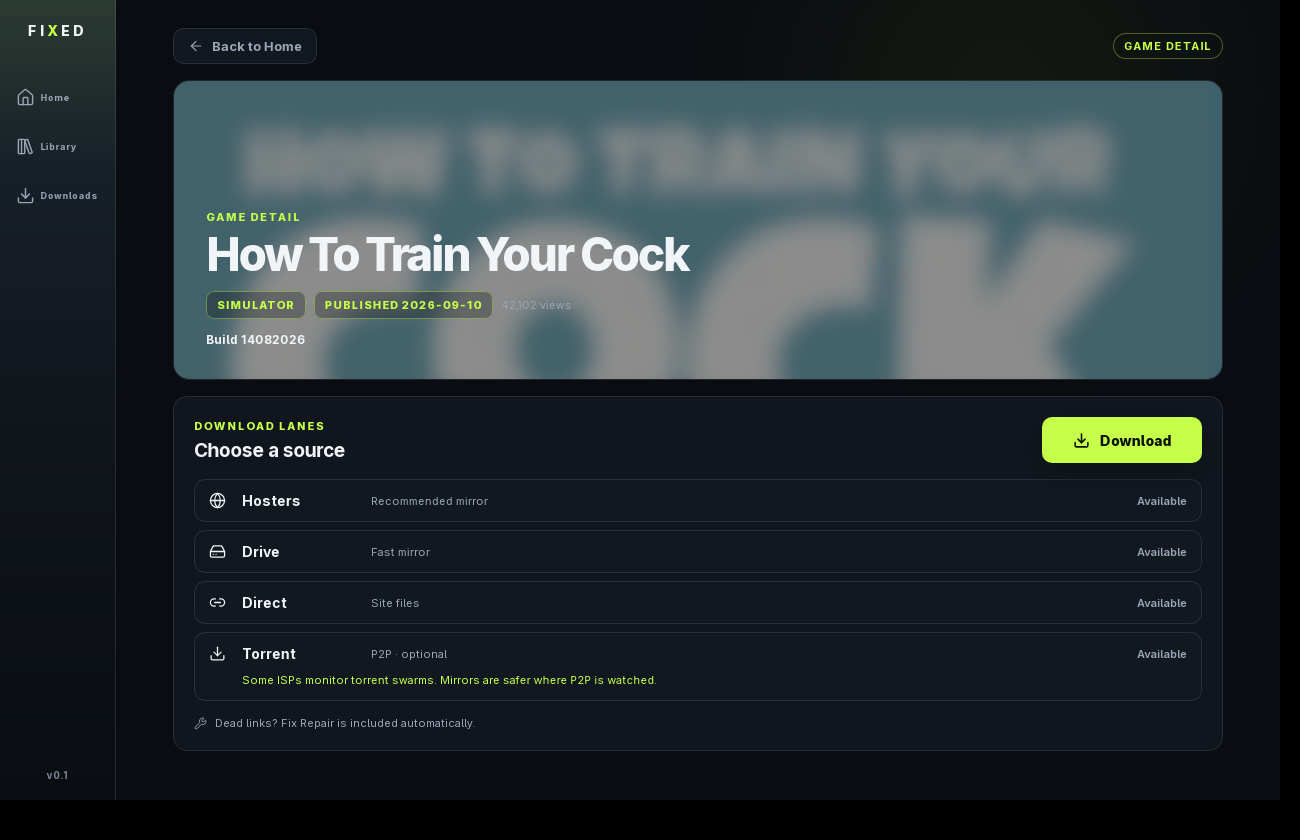
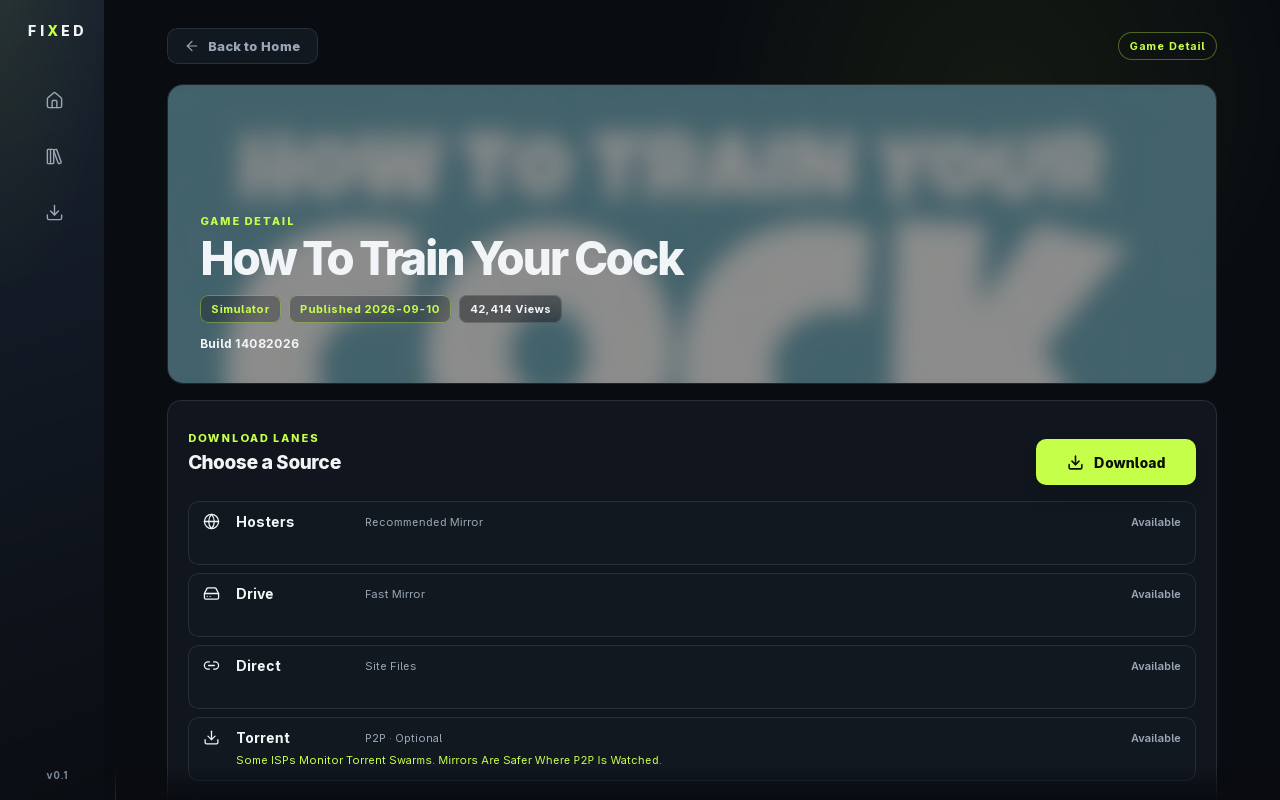
docs: real README, fresh screenshots, landing update; sidebar dramatic gradient + micro polish

diff --git a/app/src/App.css b/app/src/App.css
@@ -38,20 +38,24 @@ button { border: 0; }
 svg { flex: 0 0 auto; }
 h1, h2, h3, p { margin: 0; }
 
-.shell { display: grid; grid-template-columns: 116px minmax(0, 1fr); width: 100%; height: 100%; min-height: 720px; }
-.sidebar { display: flex; flex-direction: column; align-items: center; width: 116px; padding: 24px 8px 18px; border-right: 1px solid var(--line); background: linear-gradient(180deg, rgba(198, 255, 74, .03) 0%, rgba(198, 255, 74, .0246) 18%, transparent 36%), linear-gradient(180deg, #121920 0%, #11181F 48%, #0D1218 100%); }
+.shell { display: grid; grid-template-columns: 104px minmax(0, 1fr); width: 100%; height: 100%; min-height: 720px; }
+.sidebar { position: relative; display: flex; flex-direction: column; align-items: center; width: 116px; padding: 24px 8px 18px; border-right: 1px solid var(--line); background: radial-gradient(ellipse 180% 70% at 0% 0%, rgba(198, 255, 74, 0.07), transparent 52%), linear-gradient(160deg, #1A2330 0%, #121924 40%, #0A0D12 100%); }
+
+.sidebar::after { position: absolute; top: 0; right: 0; bottom: 0; width: 1px; background: linear-gradient(180deg, rgba(198, 255, 74, 0.35), rgba(213, 225, 237, 0.08) 42%, transparent 85%); content: ""; }
 .wordmark { color: var(--text); font-size: 14px; font-weight: 850; letter-spacing: .22em; line-height: 1; }
 .wordmark .x { color: var(--lime); }
 .sidebar nav { display: grid; gap: 8px; width: 104px; margin-top: 38px; }
-.nav-item { position: relative; display: flex; align-items: center; gap: 6px; width: 104px; height: var(--button-action-height); padding: 0 16px; border-radius: var(--button-radius); background: transparent; color: var(--muted); text-align: left; transition: color var(--dur-micro) var(--ease-standard), background-color var(--dur-micro) var(--ease-standard), transform var(--dur-micro) var(--ease-standard); }
+.nav-item { position: relative; display: flex; align-items: center; gap: 6px; width: 104px; height: var(--button-action-height); padding: 0 16px; border-radius: var(--button-radius); background: transparent; color: var(--muted); text-align: left; transition: color var(--dur-micro) var(--ease-standard), background-color var(--dur-micro) var(--ease-standard), transform var(--dur-micro) var(--ease-standard), box-shadow var(--dur-micro) var(--ease-standard); }
 .nav-item span { overflow: hidden; font-size: 9px; font-weight: 750; letter-spacing: .04em; text-overflow: ellipsis; white-space: nowrap; }
 .nav-item:hover, .nav-item.active { color: var(--text); background: rgba(25, 33, 43, .95); }
-.nav-item:hover { transform: translateY(-2px); }
+.nav-item:hover { box-shadow: 0 8px 18px rgba(0, 0, 0, .18); transform: translateY(-2px); }
+.nav-item::after { position: absolute; top: 50%; left: calc(100% + 10px); z-index: 10; padding: 7px 9px; border: 1px solid var(--line); border-radius: 8px; background: var(--elevated); box-shadow: 0 10px 24px rgba(0, 0, 0, .32); color: var(--text); content: attr(title); font-size: 11px; font-weight: 750; letter-spacing: .03em; opacity: 0; pointer-events: none; transform: translate(4px, -50%); transition: opacity var(--dur-micro) var(--ease-standard), transform var(--dur-micro) var(--ease-standard); white-space: nowrap; }
+.nav-item:hover::after, .nav-item:focus-visible::after { opacity: 1; transform: translate(0, -50%); }
 .nav-item::before { position: absolute; left: 0; top: 10px; width: 3px; height: 22px; border-radius: 0 3px 3px 0; background: var(--lime); content: ""; opacity: 0; transform: scaleY(.25); transition: opacity var(--dur-micro) var(--ease-standard), transform var(--dur-micro) var(--ease-pop); }
 .nav-item.active::before { opacity: 1; transform: scaleY(1); }
 .foot { margin-top: auto; color: #7B8794; font-size: 10px; font-weight: 700; letter-spacing: 0.08em; line-height: 1.4; text-align: center; }
 
-.content { min-width: 0; padding: 24px 24px 22px; overflow-y: auto; scrollbar-color: var(--elevated) transparent; scrollbar-width: thin; background: radial-gradient(circle at 76% 12%, rgba(198, 255, 74, .055), transparent 28%), var(--bg); }
+.content { min-width: 0; padding: 24px 24px 22px; overflow-y: auto; scrollbar-color: var(--elevated) transparent; scrollbar-width: thin; -webkit-mask-image: linear-gradient(to bottom, #000 0%, #000 calc(100% - 34px), transparent 100%); mask-image: linear-gradient(to bottom, #000 0%, #000 calc(100% - 34px), transparent 100%); background: radial-gradient(circle at 76% 12%, rgba(198, 255, 74, .055), transparent 28%), var(--bg); }
 .content::-webkit-scrollbar { width: 10px; }
 .content::-webkit-scrollbar-thumb { border: 2px solid var(--bg); border-radius: 8px; background: var(--elevated); }
 .content::-webkit-scrollbar-track { background: transparent; }
@@ -62,13 +66,16 @@ h1, h2, h3, p { margin: 0; }
 .searchbar { display: flex; align-items: center; gap: 10px; width: 430px; height: 36px; padding: 0 13px; border: 1px solid var(--line); border-radius: 11px; background: rgba(18, 24, 32, .86); color: var(--muted); transition: border-color var(--dur-micro) var(--ease-standard), box-shadow var(--dur-micro) var(--ease-standard); }
 .searchbar:focus-within { border-color: rgba(198, 255, 74, .55); }
 .searchbar input { width: 100%; border: 0; outline: 0; background: transparent; color: var(--text); }
+.searchbar input:focus-visible { outline: 2px solid var(--lime); outline-offset: 3px; border-radius: 2px; }
 .searchbar input::placeholder { color: var(--muted); }
-.source { display: inline-flex; align-items: center; max-width: 220px; min-height: 28px; overflow: hidden; padding: 0 10px; border: 1px solid rgba(198, 255, 74, .35); border-radius: 999px; color: var(--lime); font-size: var(--size-meta); font-weight: 750; letter-spacing: .08em; text-overflow: ellipsis; white-space: nowrap; }
+.source { display: inline-flex; align-items: center; max-width: 220px; min-height: 28px; padding: 0 10px; border: 1px solid rgba(198, 255, 74, .35); border-radius: 999px; color: var(--lime); font-size: var(--size-meta); font-weight: 750; letter-spacing: .08em; overflow-wrap: anywhere; white-space: normal; }
 .eyebrow { color: var(--lime); font-size: var(--size-meta); font-weight: 800; letter-spacing: .14em; line-height: 1.2; text-transform: uppercase; }
 
 .hero { position: relative; display: flex; align-items: center; height: 300px; margin-top: 18px; padding: 28px 34px; overflow: hidden; border: 1px solid var(--line); border-radius: 14px; isolation: isolate; animation: fade-rise var(--dur-med) var(--ease-decel) both; }
 .hero-bg { position: absolute; z-index: -2; inset: 0; width: 100%; height: 100%; object-fit: cover; object-position: center 30%; filter: saturate(.9) brightness(.72); }
+.hero::before { position: absolute; z-index: -1; inset: 0 0 0 42%; background: linear-gradient(90deg, rgba(9, 12, 16, .18), rgba(9, 12, 16, .06)); content: ""; transition: opacity var(--dur-med) var(--ease-standard); }
 .hero::after { position: absolute; z-index: -1; inset: 0; background: linear-gradient(90deg, rgba(9, 12, 16, .78), rgba(9, 12, 16, .48) 42%, rgba(9, 12, 16, .08) 100%), linear-gradient(0deg, rgba(9, 12, 16, .46), transparent 68%); content: ""; }
+.hero:hover::before { opacity: .45; }
 .hero-copy { position: relative; z-index: 1; min-width: 0; max-width: 520px; }
 .hero-copy .eyebrow { margin-bottom: 8px; }
 .hero-title { overflow-wrap: anywhere; font-size: 38px; font-weight: 850; letter-spacing: -.055em; line-height: .98; text-shadow: 0 2px 18px rgba(0, 0, 0, .48); }
@@ -82,39 +89,39 @@ h1, h2, h3, p { margin: 0; }
 .rail-block, .catalog { margin-top: 16px; animation: fade-rise var(--dur-med) var(--ease-decel) both; }
 .rail-head { display: flex; align-items: center; justify-content: space-between; }
 .rail-head h2, .rail-head h3 { font-size: var(--size-body); font-weight: 800; letter-spacing: -.02em; }
-.seeall { display: inline-flex; align-items: center; gap: 8px; height: var(--button-micro-height); padding: 0 16px; border-radius: var(--button-radius); background: transparent; color: var(--muted); font-size: var(--size-meta); font-weight: 800; letter-spacing: .03em; transition: color var(--dur-micro) var(--ease-standard), transform var(--dur-micro) var(--ease-standard); }
-.seeall:hover { color: var(--text); transform: translateX(4px); }
+.seeall { display: inline-flex; align-items: center; gap: 8px; height: var(--button-micro-height); padding: 0 16px; border-radius: var(--button-radius); background: transparent; color: var(--muted); font-size: var(--size-meta); font-weight: 800; letter-spacing: .03em; transition: color var(--dur-micro) var(--ease-standard), transform var(--dur-micro) var(--ease-standard), box-shadow var(--dur-micro) var(--ease-standard); }
+.seeall:hover { box-shadow: 0 8px 18px rgba(0, 0, 0, .2); color: var(--text); transform: translateY(-2px); }
 .rail, .grid { display: grid; grid-template-columns: repeat(6, minmax(0, 1fr)); gap: 12px; margin-top: 11px; }
-.card { min-width: 0; cursor: pointer; animation: fade-rise var(--dur-med) var(--ease-decel) both; transition: transform var(--dur-micro) var(--ease-standard); }
+.card { min-width: 0; cursor: pointer; animation: fade-rise var(--dur-med) var(--ease-decel) both; transition: transform var(--dur-micro) var(--ease-standard), box-shadow var(--dur-micro) var(--ease-standard); }
 .card:nth-child(2) { animation-delay: 50ms; }.card:nth-child(3) { animation-delay: 100ms; }.card:nth-child(4) { animation-delay: 150ms; }.card:nth-child(5) { animation-delay: 200ms; }.card:nth-child(6) { animation-delay: 250ms; }
-.card:hover { transform: translateY(-3px); }
-.poster { position: relative; display: block; aspect-ratio: 10 / 7; overflow: hidden; border: 1px solid var(--line); border-radius: 10px; background: var(--elevated); }
+.card:hover { box-shadow: 0 8px 20px rgba(0, 0, 0, .18); transform: translateY(-2px); }
+.poster { position: relative; display: block; aspect-ratio: 10 / 7; overflow: hidden; border: 1px solid var(--line); border-radius: 10px; background: var(--elevated); transition: border-color var(--dur-micro) var(--ease-standard); }
 .poster img { display: block; width: 100%; height: 100%; object-fit: cover; object-position: var(--poster-position, center 30%); transform: scale(var(--poster-scale, 1.03)); transition: transform var(--dur-micro) var(--ease-standard), filter var(--dur-micro) var(--ease-standard); }
 .card:hover .poster img { filter: saturate(1.14); transform: scale(var(--poster-hover-scale, 1.09)); }
+.card:hover .poster, .card:focus-within .poster { border-color: rgba(198, 255, 74, .25); }
 .poster-overlay { position: absolute; inset: 0; display: grid; place-items: center; background: rgba(9, 12, 16, .48); opacity: 0; transition: opacity var(--dur-micro) var(--ease-standard); }
-.card:hover .poster-overlay, .card:focus-visible .poster-overlay { opacity: 1; }
-.quick-dl { display: inline-flex; align-items: center; gap: 7px; height: var(--button-micro-height); padding: 0 16px; border-radius: var(--button-radius); background: var(--lime); color: #0b1007; font-size: 12px; font-weight: 800; transition: transform var(--dur-micro) var(--ease-pop), background-color var(--dur-micro) var(--ease-standard); }
-.quick-dl:hover { background: var(--lime-soft); transform: scale(1.06); }
+.card:hover .poster-overlay, .card:focus-within .poster-overlay { opacity: 1; }
+.quick-dl { display: inline-flex; align-items: center; gap: 7px; height: var(--button-micro-height); padding: 0 16px; border-radius: var(--button-radius); background: var(--lime); color: #0b1007; font-size: 12px; font-weight: 800; opacity: 0; transform: translateY(4px); transition: opacity var(--dur-short) var(--ease-standard), transform var(--dur-short) var(--ease-pop), background-color var(--dur-micro) var(--ease-standard), box-shadow var(--dur-micro) var(--ease-standard); }
+:where(.card:hover, .card:focus-within) .quick-dl { opacity: 1; transform: translateY(0); }
+.quick-dl:hover { background: var(--lime-soft); box-shadow: 0 8px 20px rgba(198, 255, 74, .2); transform: translateY(-2px) scale(1.06); }
 .copy { margin-top: 8px; }
 .copy h2 {
-  display: -webkit-box;
-  -webkit-box-orient: vertical;
-  -webkit-line-clamp: 2;
-  overflow: hidden;
   min-height: 2.4em;
   color: var(--text);
   font-size: var(--size-meta);
   font-weight: 750;
-  letter-spacing: .01em;
+  letter-spacing: .08em;
   line-height: 1.2;
-  text-overflow: ellipsis;
+  overflow-wrap: anywhere;
+  text-transform: uppercase;
 }
 .copy .meta { display: flex; justify-content: space-between; gap: 6px; margin-top: 4px; color: var(--muted); font-size: var(--size-meta); }
-.copy .meta span { overflow: hidden; text-overflow: ellipsis; white-space: nowrap; }
-.loadmore { display: flex; align-items: center; justify-content: center; width: 100%; height: var(--button-action-height); margin-top: 16px; padding: 0 16px; border: 1px solid var(--line); border-radius: var(--button-radius); background: var(--surface); color: var(--muted); font-weight: 800; transition: color var(--dur-micro) var(--ease-standard), border-color var(--dur-micro) var(--ease-standard), transform var(--dur-micro) var(--ease-standard); }
-.loadmore:hover:not(:disabled) { border-color: rgba(198, 255, 74, .4); color: var(--text); transform: translateY(-1px); }
+.copy .meta span { overflow-wrap: anywhere; white-space: normal; }
+.loadmore { display: flex; align-items: center; justify-content: center; width: 100%; height: var(--button-action-height); margin-top: 16px; padding: 0 16px; border: 1px solid var(--line); border-radius: var(--button-radius); background: var(--surface); color: var(--muted); font-weight: 800; transition: color var(--dur-micro) var(--ease-standard), border-color var(--dur-micro) var(--ease-standard), transform var(--dur-micro) var(--ease-standard), box-shadow var(--dur-micro) var(--ease-standard); }
+.loadmore:hover:not(:disabled) { border-color: rgba(198, 255, 74, .4); box-shadow: 0 8px 20px rgba(0, 0, 0, .22); color: var(--text); transform: translateY(-2px); }
 .state { margin-top: 14px; color: var(--muted); font-size: var(--size-meta); }
-.empty { display: grid; place-items: center; align-content: center; gap: 10px; min-height: calc(100vh - 48px); color: var(--muted); text-align: center; }
+.empty { display: grid; place-items: center; align-content: center; gap: 10px; min-height: calc(100dvh - 48px); color: var(--muted); text-align: center; }
+.empty > svg { animation: empty-float 3s ease-in-out infinite; }
 .empty h2 { color: var(--text); font-size: 18px; }
 .empty p { max-width: 380px; line-height: 1.6; }
 .empty button { height: var(--button-primary-height); margin-top: 10px; padding: 0 18px; border-radius: var(--button-radius); background: var(--lime); color: #0b1007; font-weight: 800; transition: transform var(--dur-micro) var(--ease-standard), box-shadow var(--dur-micro) var(--ease-standard); }
@@ -122,8 +129,8 @@ h1, h2, h3, p { margin: 0; }
 
 .detail { max-width: 1050px; min-height: calc(100vh - 48px); margin: 0 auto; animation: fade-rise var(--dur-med) var(--ease-decel) both; }
 .detail-bar { display: flex; align-items: center; justify-content: space-between; min-height: 44px; }
-.back { display: inline-flex; align-items: center; gap: 8px; height: var(--button-action-height); padding: 0 16px; border: 1px solid var(--line); border-radius: var(--button-radius); background: var(--surface); color: var(--muted); font-size: 13px; font-weight: 800; transition: color var(--dur-micro) var(--ease-standard), border-color var(--dur-micro) var(--ease-standard), transform var(--dur-micro) var(--ease-standard); }
-.back:hover { border-color: rgba(213, 225, 237, .3); color: var(--text); transform: translateX(-2px); }
+.back { display: inline-flex; align-items: center; gap: 8px; height: var(--button-action-height); padding: 0 16px; border: 1px solid var(--line); border-radius: var(--button-radius); background: var(--surface); color: var(--muted); font-size: 13px; font-weight: 800; transition: color var(--dur-micro) var(--ease-standard), border-color var(--dur-micro) var(--ease-standard), transform var(--dur-micro) var(--ease-standard), box-shadow var(--dur-micro) var(--ease-standard); }
+.back:hover { border-color: rgba(213, 225, 237, .3); box-shadow: 0 8px 20px rgba(0, 0, 0, .22); color: var(--text); transform: translateY(-2px); }
 .detail-banner { position: relative; display: flex; align-items: flex-end; min-height: 300px; margin-top: 16px; padding: 32px; overflow: hidden; border: 1px solid var(--line); border-radius: 16px; isolation: isolate; }
 .detail .poster.detail-art { position: absolute; inset: 0; width: 100%; height: 100%; aspect-ratio: auto; border: 0; border-radius: 0; }
 .detail-art img { object-position: center 32%; transform: scale(1.14); filter: blur(10px) saturate(.75) brightness(.55); }
@@ -134,25 +141,25 @@ h1, h2, h3, p { margin: 0; }
 .build { margin-top: 13px; color: var(--text); font-size: 12px; font-weight: 700; }
 .detail-body { margin-top: 16px; padding: 20px; border: 1px solid var(--line); border-radius: 14px; background: rgba(18, 24, 32, .88); }
 .detail-section-head { display: flex; align-items: center; justify-content: space-between; gap: 16px; }
-.detail-section-head h2 { margin-top: 6px; font-size: 19px; letter-spacing: -.03em; }
+.detail-section-head h2 { margin-top: 6px; font-size: 19px; font-weight: 800; letter-spacing: -.03em; }
 .detail-section-head .hero-cta { position: static; min-width: 160px; }
 .lanes { display: grid; gap: 8px; margin-top: 16px; }
-.lane-row { display: grid; grid-template-columns: 22px minmax(118px, auto) minmax(0, 1fr) auto; grid-template-rows: minmax(0, 1fr) minmax(0, 1fr); gap: 4px 11px; align-items: center; height: 64px; min-width: 0; padding: 10px 14px; border: 1px solid var(--line); border-radius: var(--button-radius); background: var(--surface); transition: border-color var(--dur-micro) var(--ease-standard), background-color var(--dur-micro) var(--ease-standard), transform var(--dur-micro) var(--ease-standard); }
-.lane-row:hover { border-color: rgba(213, 225, 237, .25); background: var(--elevated); transform: translateX(3px); }
-.lane-row .name { min-width: 0; overflow: hidden; color: var(--text); font-weight: 750; text-overflow: ellipsis; white-space: nowrap; }
-.lane-row .kind, .lane-row .spacer { min-width: 0; overflow: hidden; color: var(--muted); font-size: var(--size-meta); text-overflow: ellipsis; white-space: nowrap; }
+.lane-row { display: grid; grid-template-columns: 22px minmax(118px, auto) minmax(0, 1fr) auto; grid-template-rows: minmax(0, 1fr) minmax(0, 1fr); gap: 4px 11px; align-items: center; height: 64px; min-width: 0; padding: 10px 14px; border: 1px solid var(--line); border-radius: var(--button-radius); background: var(--surface); transition: border-color var(--dur-micro) var(--ease-standard), background-color var(--dur-micro) var(--ease-standard), transform var(--dur-micro) var(--ease-standard), box-shadow var(--dur-micro) var(--ease-standard); }
+.lane-row:hover { border-color: rgba(213, 225, 237, .25); background: var(--elevated); box-shadow: 0 8px 20px rgba(0, 0, 0, .2); transform: translateY(-2px); }
+.lane-row .name { min-width: 0; overflow-wrap: anywhere; color: var(--text); font-weight: 750; white-space: normal; }
+.lane-row .kind, .lane-row .spacer { min-width: 0; overflow-wrap: anywhere; color: var(--muted); font-size: var(--size-meta); white-space: normal; }
 .lane-row .spacer { font-weight: 650; }
-.warning { grid-column: 2 / -1; min-width: 0; margin: 0; overflow: hidden; color: var(--lime); font-size: var(--size-meta); line-height: 1.2; text-overflow: ellipsis; white-space: nowrap; }
+.warning { grid-column: 2 / -1; min-width: 0; margin: 0; color: var(--lime); font-size: var(--size-meta); line-height: 1.2; overflow-wrap: anywhere; white-space: normal; }
 .note { display: flex; align-items: center; gap: 8px; margin-top: 15px; color: var(--muted); font-size: var(--size-meta); }
 
 .downloads-bar { margin-bottom: 16px; }
 .downloads-bar .ghost { margin-bottom: 0; }
 .queue { display: grid; gap: 16px; margin-top: 16px; }
-.queue-card { display: grid; grid-template-columns: 84px minmax(0, 1fr); gap: 16px; align-items: stretch; min-width: 0; padding: 16px; border: 1px solid var(--line); border-radius: 13px; background: var(--surface); animation: fade-rise var(--dur-med) var(--ease-decel) both; transition: border-color var(--dur-micro) var(--ease-standard), transform var(--dur-micro) var(--ease-standard); }
-.queue-card:hover { border-color: rgba(213, 225, 237, .24); transform: translateY(-2px); }
+.queue-card { display: grid; grid-template-columns: 84px minmax(0, 1fr); gap: 16px; align-items: stretch; min-width: 0; padding: 16px; border: 1px solid var(--line); border-radius: 13px; background: var(--surface); animation: fade-rise var(--dur-med) var(--ease-decel) both; transition: border-color var(--dur-micro) var(--ease-standard), transform var(--dur-micro) var(--ease-standard), box-shadow var(--dur-micro) var(--ease-standard); }
+.queue-card:hover { border-color: rgba(213, 225, 237, .24); box-shadow: 0 8px 20px rgba(0, 0, 0, .2); transform: translateY(-2px); }
 .poster.small { width: 84px; height: 104px; aspect-ratio: auto; }
 .queue-copy { display: flex; min-width: 0; min-height: 104px; flex-direction: column; }
-.queue-copy h2 { display: flex; align-items: center; min-width: 0; gap: 8px; overflow: hidden; font-size: 16px; font-weight: 800; letter-spacing: -.02em; text-overflow: ellipsis; white-space: nowrap; }
+.queue-copy h2 { display: flex; align-items: center; flex-wrap: wrap; min-width: 0; gap: 8px; overflow-wrap: anywhere; font-size: 16px; font-weight: 800; letter-spacing: -.02em; white-space: normal; }
 .queue-copy p { margin-top: 5px; color: var(--muted); font-size: var(--size-meta); }
 .lane-badge { display: inline-flex; align-items: center; flex: 0 0 auto; gap: 5px; min-height: 24px; padding: 0 8px; border: 1px solid rgba(213, 225, 237, .2); border-radius: 999px; color: var(--muted); font-size: 10px; font-weight: 700; letter-spacing: .05em; }
 .progress-track { height: 7px; margin-top: 11px; overflow: hidden; border-radius: 7px; background: #232d39; }
@@ -163,21 +170,22 @@ h1, h2, h3, p { margin: 0; }
 .play { background: var(--lime); color: #10130c; }
 .play:hover { background: var(--lime-soft); box-shadow: 0 8px 20px rgba(198, 255, 74, .18); transform: translateY(-2px); }
 .ghost { border: 1px solid var(--line); background: transparent; color: var(--muted); font-size: 12px; }
-.ghost:hover { border-color: rgba(213, 225, 237, .3); color: var(--text); transform: translateY(-1px); }
+.ghost:hover { border-color: rgba(213, 225, 237, .3); box-shadow: 0 8px 20px rgba(0, 0, 0, .22); color: var(--text); transform: translateY(-2px); }
 .plugin-note { margin-top: 8px; color: var(--lime) !important; font-size: var(--size-meta); font-weight: 600; }
 
 .choice-backdrop { position: fixed; inset: 0; z-index: 40; display: grid; place-items: center; background: rgba(9, 12, 16, .72); backdrop-filter: blur(4px); }
 .choice { width: 440px; max-width: calc(100vw - 32px); padding: 24px; border: 1px solid var(--line); border-radius: 16px; background: var(--surface); box-shadow: 0 30px 80px rgba(0, 0, 0, .5); animation: fade-rise var(--dur-short) var(--ease-decel) both; }
 .choice h3 { margin-bottom: 6px; overflow-wrap: anywhere; font-size: 17px; font-weight: 800; }
 .choice .hint { margin-bottom: 16px; overflow-wrap: anywhere; color: var(--muted); font-size: 12px; line-height: 1.55; }
-.choice-lane { display: flex; align-items: center; gap: 12px; width: 100%; height: var(--button-action-height); margin-top: 8px; padding: 0 16px; border: 1px solid var(--line); border-radius: var(--button-radius); background: var(--elevated); color: var(--text); text-align: left; transition: border-color var(--dur-micro) var(--ease-standard), transform var(--dur-micro) var(--ease-standard); }
-.choice-lane:hover { border-color: rgba(198, 255, 74, .5); transform: translateY(-2px); }
-.choice-lane .name { min-width: 0; flex: 0 0 116px; overflow: hidden; font-weight: 750; text-overflow: ellipsis; white-space: nowrap; }
-.choice-lane .kind { min-width: 0; margin-left: auto; overflow: hidden; color: var(--muted); font-size: var(--size-meta); text-overflow: ellipsis; white-space: nowrap; }
+.choice-lane { display: flex; align-items: center; gap: 12px; width: 100%; height: var(--button-action-height); margin-top: 8px; padding: 0 16px; border: 1px solid var(--line); border-radius: var(--button-radius); background: var(--elevated); color: var(--text); text-align: left; transition: border-color var(--dur-micro) var(--ease-standard), transform var(--dur-micro) var(--ease-standard), box-shadow var(--dur-micro) var(--ease-standard); }
+.choice-lane:hover { border-color: rgba(198, 255, 74, .5); box-shadow: 0 8px 20px rgba(0, 0, 0, .2); transform: translateY(-2px); }
+.choice-lane .name { min-width: 0; flex: 0 0 116px; overflow-wrap: anywhere; font-weight: 750; white-space: normal; }
+.choice-lane .kind { min-width: 0; margin-left: auto; overflow-wrap: anywhere; color: var(--muted); font-size: var(--size-meta); white-space: normal; }
 .choice .remember { display: flex; align-items: center; gap: 8px; margin-top: 16px; color: var(--muted); font-size: var(--size-meta); }.choice .remember input { accent-color: var(--lime); cursor: pointer; }
-.choice .dismiss { height: var(--button-micro-height); margin-top: 16px; padding: 0 16px; border: 1px solid var(--line); border-radius: var(--button-radius); background: transparent; color: var(--muted); font-size: var(--size-meta); font-weight: 800; }.choice .dismiss:hover { border-color: rgba(213, 225, 237, .3); color: var(--text); }
+.choice .dismiss { height: var(--button-micro-height); margin-top: 16px; padding: 0 16px; border: 1px solid var(--line); border-radius: var(--button-radius); background: transparent; color: var(--muted); font-size: var(--size-meta); font-weight: 800; transition: border-color var(--dur-micro) var(--ease-standard), color var(--dur-micro) var(--ease-standard), transform var(--dur-micro) var(--ease-standard), box-shadow var(--dur-micro) var(--ease-standard); }.choice .dismiss:hover { border-color: rgba(213, 225, 237, .3); box-shadow: 0 8px 20px rgba(0, 0, 0, .2); color: var(--text); transform: translateY(-2px); }
 
 @keyframes fade-rise { from { opacity: 0; filter: blur(8px); transform: translateY(10px); } to { opacity: 1; filter: blur(0); transform: translateY(0); } }
+@keyframes empty-float { 0%, 100% { transform: translateY(0); } 50% { transform: translateY(-4px); } }
 @media (prefers-reduced-motion: reduce) { *, *::before, *::after { animation: none !important; transition: none !important; scroll-behavior: auto !important; } }
 
 .review-card {
@@ -200,13 +208,15 @@ h1, h2, h3, p { margin: 0; }
 
   text-align: left;
 
-  transition: border-color var(--dur-micro) var(--ease-standard), transform var(--dur-micro) var(--ease-standard);
+  transition: border-color var(--dur-micro) var(--ease-standard), transform var(--dur-micro) var(--ease-standard), box-shadow var(--dur-micro) var(--ease-standard);
 
 }
 
 .review-card:hover {
 
   border-color: rgba(198, 255, 74, 0.4);
+
+  box-shadow: 0 8px 20px rgba(0, 0, 0, .2);
 
   transform: translateY(-2px);
 
@@ -261,7 +271,6 @@ h1, h2, h3, p { margin: 0; }
 .review-copy {
 
   min-width: 0;
-  overflow: hidden;
 
   color: var(--muted);
 
@@ -269,9 +278,9 @@ h1, h2, h3, p { margin: 0; }
 
   font-weight: 700;
 
-  text-overflow: ellipsis;
+  overflow-wrap: anywhere;
 
-  white-space: nowrap;
+  white-space: normal;
 
 }
 

diff --git a/app/src/App.tsx b/app/src/App.tsx
@@ -711,6 +711,8 @@ export default function App() {
 
               type="button"
 
+              title={label}
+
               className={view === id && !selected ? "nav-item active" : "nav-item"}
 
               onClick={() => switchView(id)}

diff --git a/README.md b/README.md
@@ -1,0 +1,53 @@
+# FIXED
+
+Desktop client for [online-fix.me](https://online-fix.me): browse, download, extract, add to Steam and play. One click, zero setup, minimal questions.
+
+[![CI](https://github.com/edersonff/fixed/actions/workflows/ci.yml/badge.svg)](https://github.com/edersonff/fixed/actions/workflows/ci.yml)
+[![Release](https://github.com/edersonff/fixed/actions/workflows/release.yml/badge.svg)](https://github.com/edersonff/fixed/releases)
+
+![FIXED home](docs/screenshots/home.png)
+
+## What it does
+
+One pipeline, end to end. You click Download once, FIXED does the rest:
+
+1. **Download** — HTTP mirror lane first (Pixeldrain-backed, resumable range requests), torrent as automatic fallback. Live progress with lane badge.
+2. **Extract** — password handled automatically, installers cleaned up after install.
+3. **Steam** — non-Steam shortcut written into your library with Proton launch options, idempotent.
+4. **Play** — one click launches the game through Steam.
+5. **Plugins** — drop a BepInEx zip; Fix Repair is reapplied on top automatically.
+
+![Game detail](docs/screenshots/detail.png)
+
+## Features
+
+- Live catalog from the site with instant client-side search: fuzzy matching (finds `BOMBANANA` from `bombanana`) and automatic pagination while you search.
+- Video review card per game, straight from the game page.
+- Download choice without nagging: HTTP mirror when available, torrent fallback, ISP warning on the torrent lane.
+- Downloads queue with progress, lane badge, Stop all while active, Play and Add plugin when ready.
+- Tauri v2 + Rust core: scraper, torrent engine and HTTP downloader run natively.
+
+![Downloads ready](docs/screenshots/downloads-ready.png)
+
+## Install
+
+Grab a bundle from [releases](https://github.com/edersonff/fixed/releases):
+
+- Linux: `.deb` or `.AppImage`
+- Windows: `.msi` or `-setup.exe`
+
+## Develop
+
+```bash
+# frontend + backend in one terminal
+cd app
+WEBKIT_DISABLE_DMABUF_RENDERER=1 pnpm tauri dev
+```
+
+The `WEBKIT_DISABLE_DMABUF_RENDERER=1` env is required on NVIDIA + WebKitGTK.
+
+Rust core lives in `core/` (scraper, torrent, HTTP download, extraction, Steam shortcuts, plugin install). CI builds and checks both Linux and Windows on every push.
+
+## Notes
+
+Community client, not affiliated with online-fix.me. For personal use with games you own.
